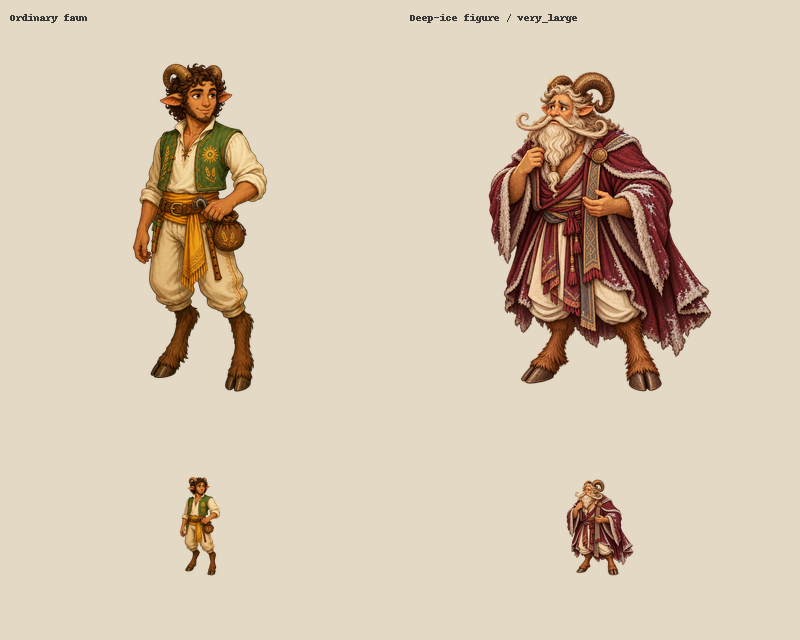
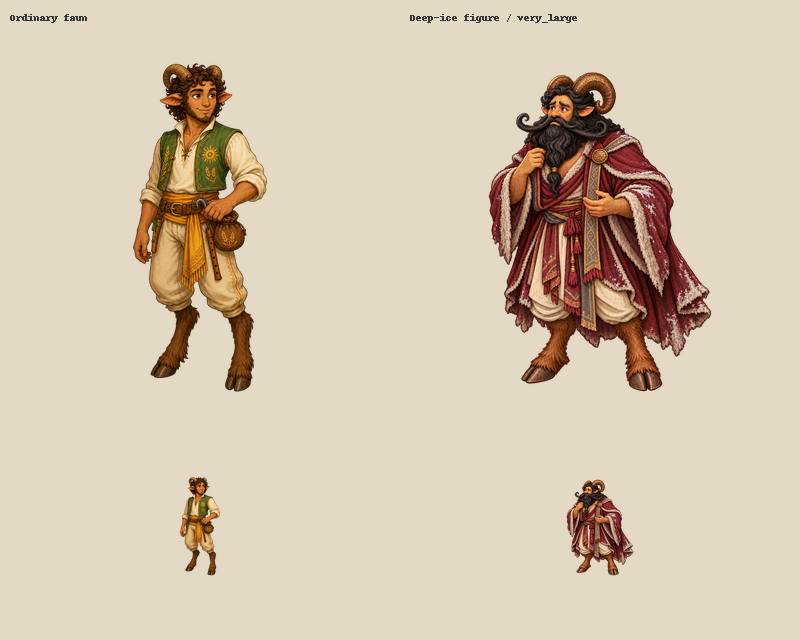
Give the finale satyr black hair and beard

Changed region(s): [[0.5938, 0.0938, 0.8438, 0.5938], [0.7812, 0.5312, 0.8438, 0.5938], [0.7188, 0.75, 0.75, 0.8438]]

diff --git a/docs/campaigns/continental-rift/art-and-audio-log.md b/docs/campaigns/continental-rift/art-and-audio-log.md
@@ -244,3 +244,5 @@ The first real-stage capture delivered TV, watcher-phone and host-phone images, 
 A second capture retook the TV frame after the phone images, allowing streamed rig textures to settle. All four figures now render in the committed TV image; the earlier placeholder is resolved in this capture. The retry completed successfully in five minutes; its final log confirms one passed test. The review helper retains this final TV retake. The standalone finale PCM test passes at the production audit rate (1.24 seconds render time). Part D's complete Linux CI, including browser tests, is green; Part B's corrected head passes its full build/test/art/audio and rig checks, with browser CI still running at this point.
 
 Final local art gate: **1521 passed, 24 existing warnings**. The successful capture retry and strict review-tool typecheck are included. Initial Linux CI passed tests, generated-content checks, content validation, art, rig and audio gates, then caught a Windows-encoded dash in the new score's brief during Vite bundling. The source is corrected to UTF-8 and all Part E text files were decoded strictly to verify encoding. A local production build validates that correction before pushing it.
+
+Owner review revision: the finale satyr now has black scalp hair, eyebrows, sweeping mustache and beard, with charcoal highlights. Built-in imagegen edited the accepted source while preserving his facing, expression, robes and anatomy; exact edit prompt is in the Part E prompt record. Source, registered runtime cutout and ordinary-faun comparison sheet are updated. The targeted production cast-art verifier passes all three checks (format/margins, faun basis, feet registration). Earlier stage screenshots show the previous gray-haired version and remain composition evidence; the updated contact sheet shows the current hair color.
